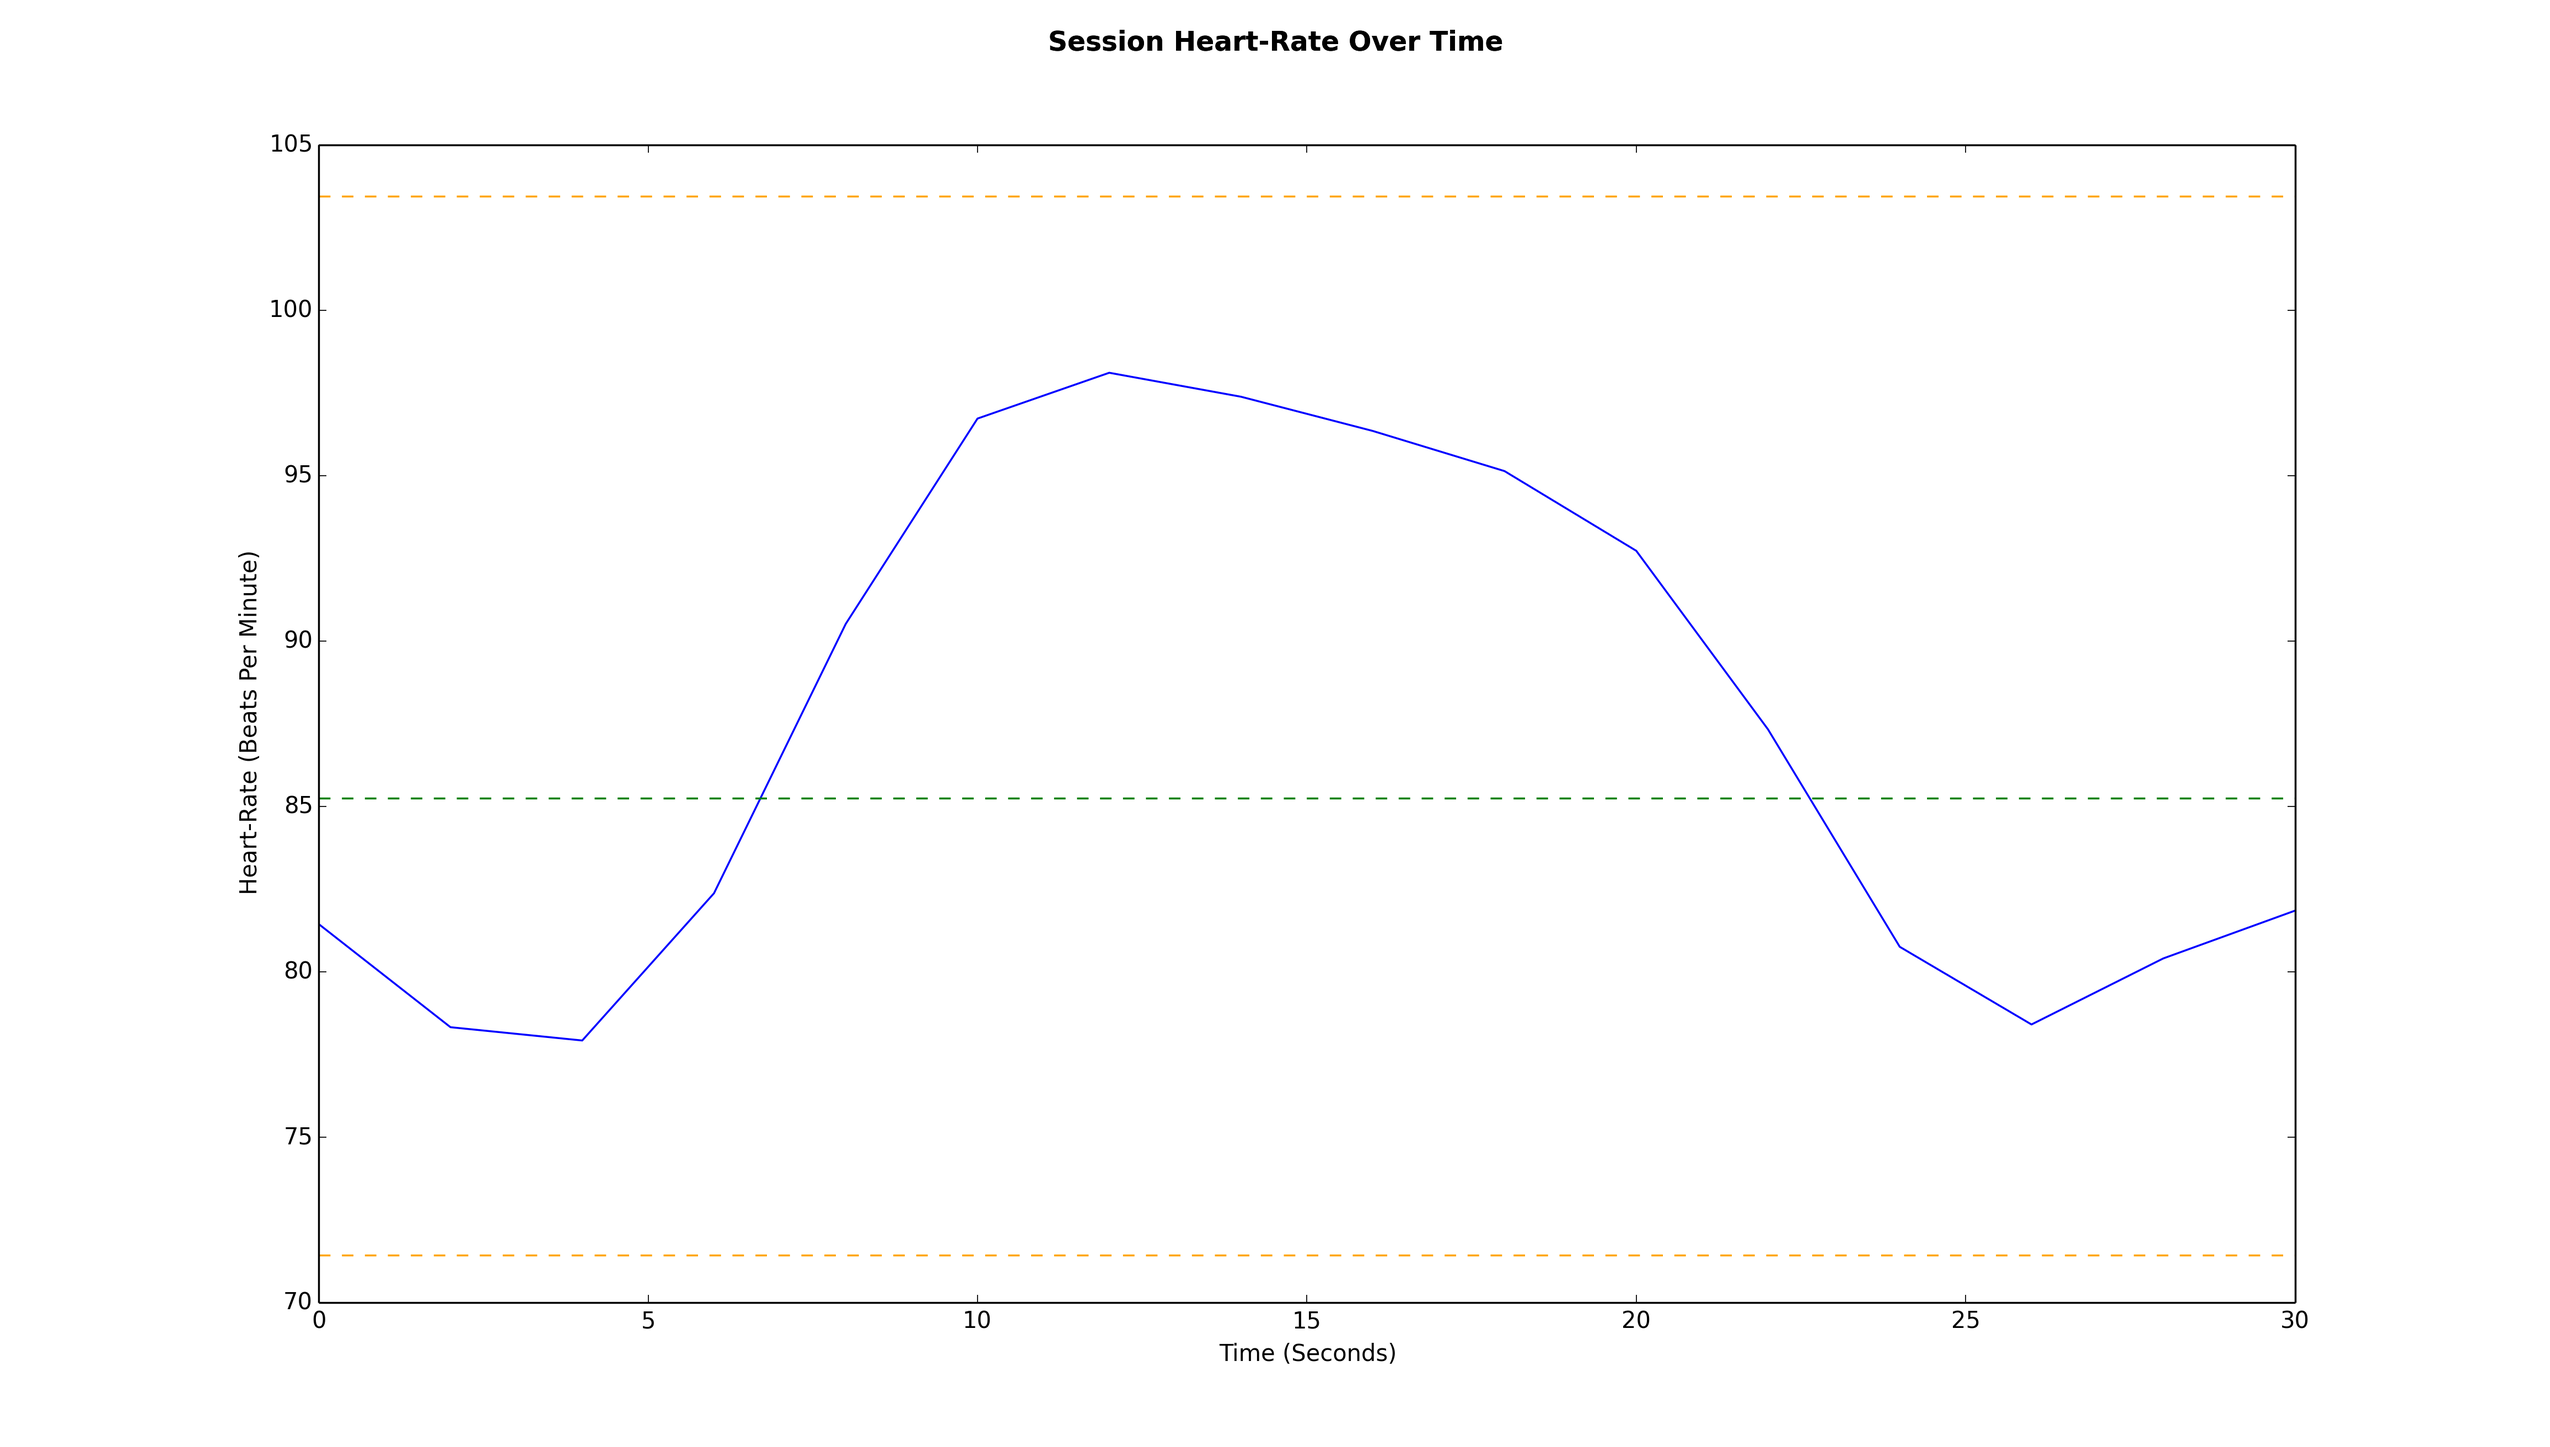
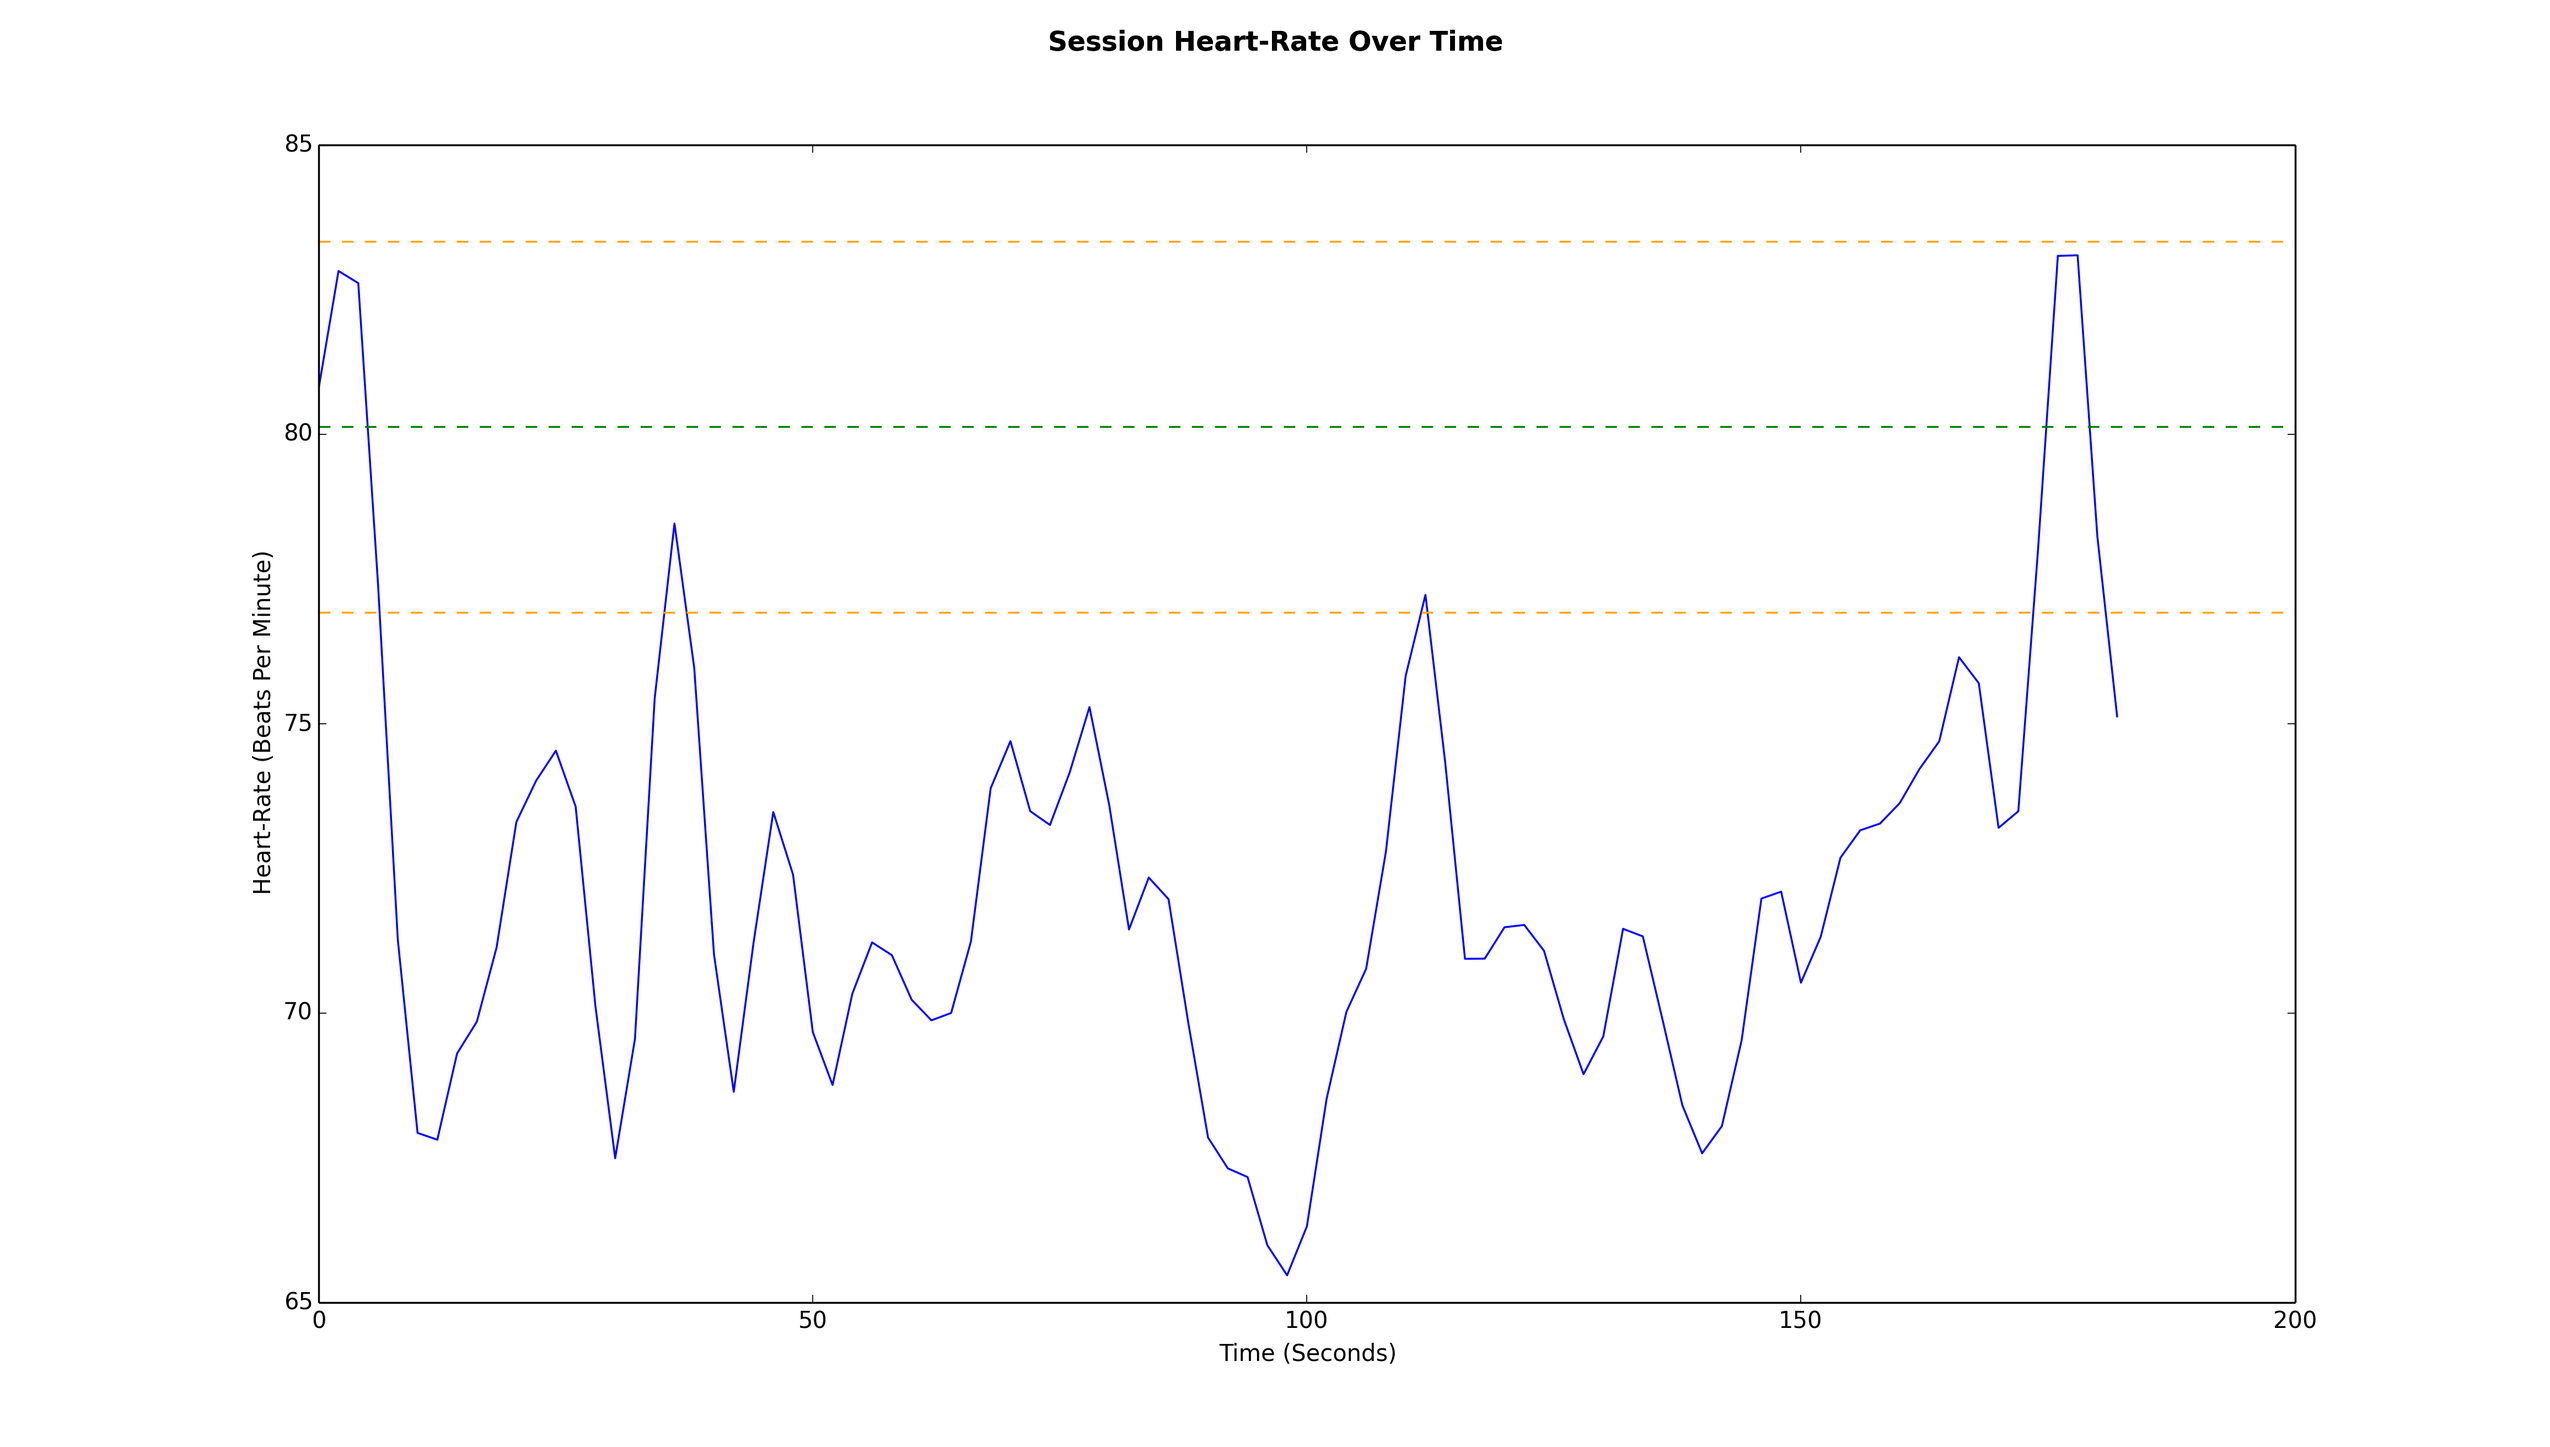
modification/lower calibration for demo

Changed region(s): [[0.0934, 0.3749, 0.1245, 0.6248]]

diff --git a/Biometrics/Easy-Pulse/python/BPM Interface/processing.py b/Biometrics/Easy-Pulse/python/BPM Interface/processing.py
@@ -20,7 +20,7 @@ import wx
 import gui
 import functions
 
-stdThresholdLow = 15
+stdThresholdLow = 5
 stdThresholdHigh = 500
 
 calibrateLow = 0
@@ -275,12 +275,30 @@ class CalibrateThread(Thread):
             else:
                 statusCount = 0
 
-            if statusCount == 15:
+            # if statusCount == 15:
+            #     global calibrateLow, calibrateHigh, calibrateMean
+
+            #     calibrateLow = np.min(calibrateBPM[-10:-1])
+            #     calibrateHigh = np.max(calibrateBPM[-10:-1])
+            #     calibrateMean = np.mean(calibrateBPM[-10:-1])
+
+            #     print "min: ", calibrateLow
+            #     print "max: ", calibrateHigh
+            #     print "mean: ", calibrateMean
+
+            #     wx.PostEvent(self._notify_window, CalibrateEvent(1))
+            #     arduino.close()
+
+            #     gui.worker = None
+            #     return
+
+            #for demo calibration set to 5
+            if statusCount == 5:
                 global calibrateLow, calibrateHigh, calibrateMean
 
-                calibrateLow = np.min(calibrateBPM[-10:-1])
-                calibrateHigh = np.max(calibrateBPM[-10:-1])
-                calibrateMean = np.mean(calibrateBPM[-10:-1])
+                calibrateLow = np.min(calibrateBPM[-3:-1])
+                calibrateHigh = np.max(calibrateBPM[-3:-1])
+                calibrateMean = np.mean(calibrateBPM[-3:-1])
 
                 print "min: ", calibrateLow
                 print "max: ", calibrateHigh
